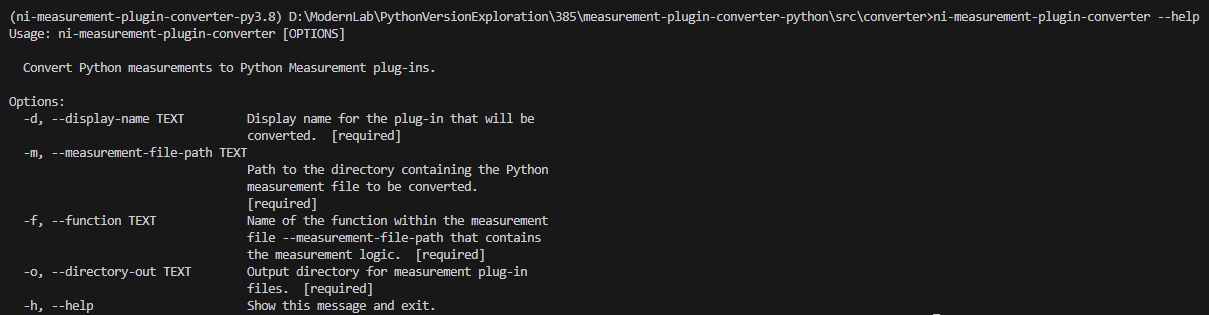
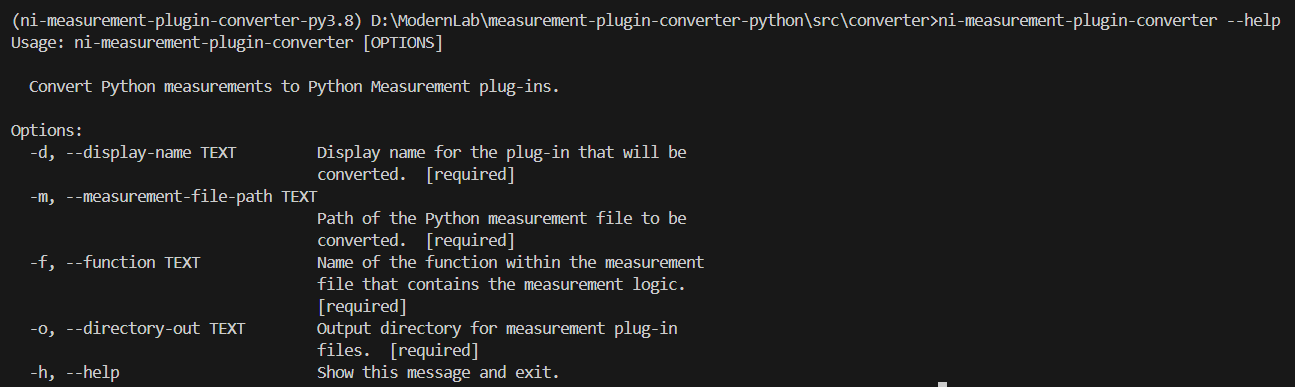
docs: update documentation

diff --git a/README.md b/README.md
@@ -34,7 +34,7 @@ Measurement Plug-In Converter for Python has the following packages
 - Measurement Plug-In Converter
 
   - [Python = ^3.8](https://www.python.org/downloads/release/python-385/)
-  - [NI Measurement Plug-In UI Creator](dependencies/ni_measurement_plugin_ui_creator-1.0.0-py3-none-any.whl)
+  - NI Measurement Plug-In UI Creator
 
 - Measurement Plug-In UI Creator
 
@@ -72,15 +72,14 @@ Measurement Plug-In Converter for Python has the following packages
     -d, --display-name TEXT         Display name for the plug-in that will be
                                     converted.  [required]
     -m, --measurement-file-path TEXT
-                                    Path to the directory containing the Python
-                                    measurement file to be converted.
-                                    [required]
+                                    Path of the Python measurement file to be
+                                    converted.  [required]
     -f, --function TEXT             Name of the function within the measurement
-                                    file --measurement-file-path that contains
-                                    the measurement logic.  [required]
+                                    file that contains the measurement logic.
+                                    [required]
     -o, --directory-out TEXT        Output directory for measurement plug-in
                                     files.  [required]
-    -h, --help                      Show this message and exit
+    -h, --help                      Show this message and exit.
   ```
 
 - Run the following command to convert Python measurements to measurement plug-ins.

diff --git a/src/converter/README.md b/src/converter/README.md
@@ -19,7 +19,7 @@
 ## Dependencies
 
 - [Python = ^3.8](https://www.python.org/downloads/release/python-385/)
-- [NI Measurement Plug-In UI Creator](../../dependencies/ni_measurement_plugin_ui_creator-1.0.0-py3-none-any.whl)
+- NI Measurement Plug-In UI Creator
 
 ## How to install?
 
@@ -44,15 +44,14 @@
     -d, --display-name TEXT         Display name for the plug-in that will be
                                     converted.  [required]
     -m, --measurement-file-path TEXT
-                                    Path to the directory containing the Python
-                                    measurement file to be converted.
-                                    [required]
+                                    Path of the Python measurement file to be
+                                    converted.  [required]
     -f, --function TEXT             Name of the function within the measurement
-                                    file --measurement-file-path that contains
-                                    the measurement logic.  [required]
+                                    file that contains the measurement logic.
+                                    [required]
     -o, --directory-out TEXT        Output directory for measurement plug-in
                                     files.  [required]
-    -h, --help                      Show this message and exit
+    -h, --help                      Show this message and exit.
   ```
 
 - Run the following command to convert Python measurements to measurement plug-ins.

diff --git a/src/ui_creator/README.md b/src/ui_creator/README.md
@@ -1,6 +1,6 @@
 # NI Measurement Plug-In UI Creator
 
-- [NI Measurement Plug-In UI Creator](#create-measurement-plug-in-ui-fileni-measurement-plug-in-ui-creator)
+- [NI Measurement Plug-In UI Creator](#ni-measurement-plug-in-ui-creator)
   - [Introduction](#introduction)
   - [Dependencies](#dependencies)
   - [How to install?](#how-to-install)
